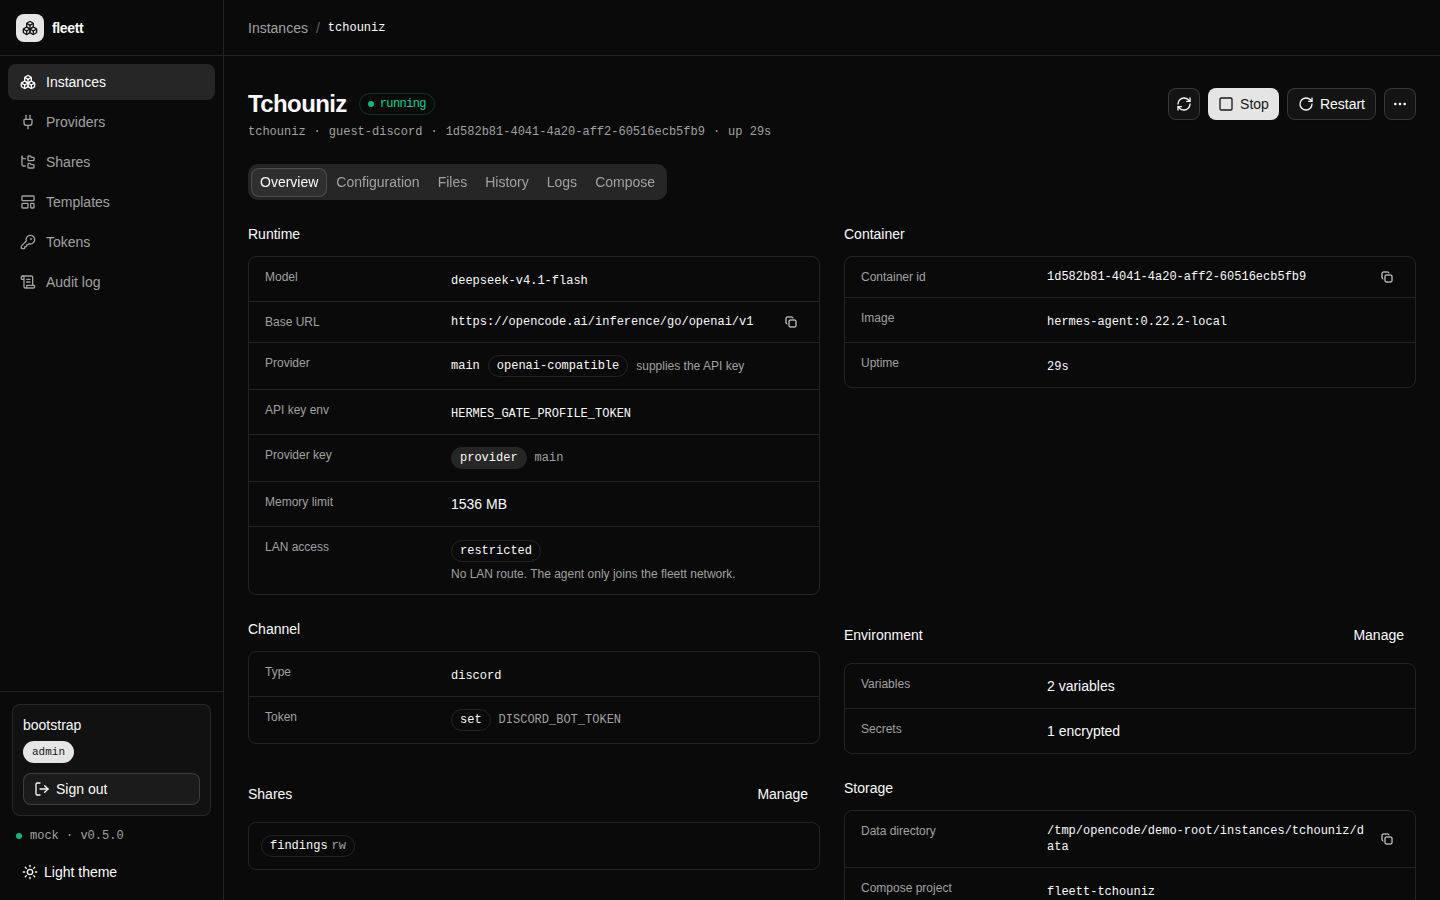
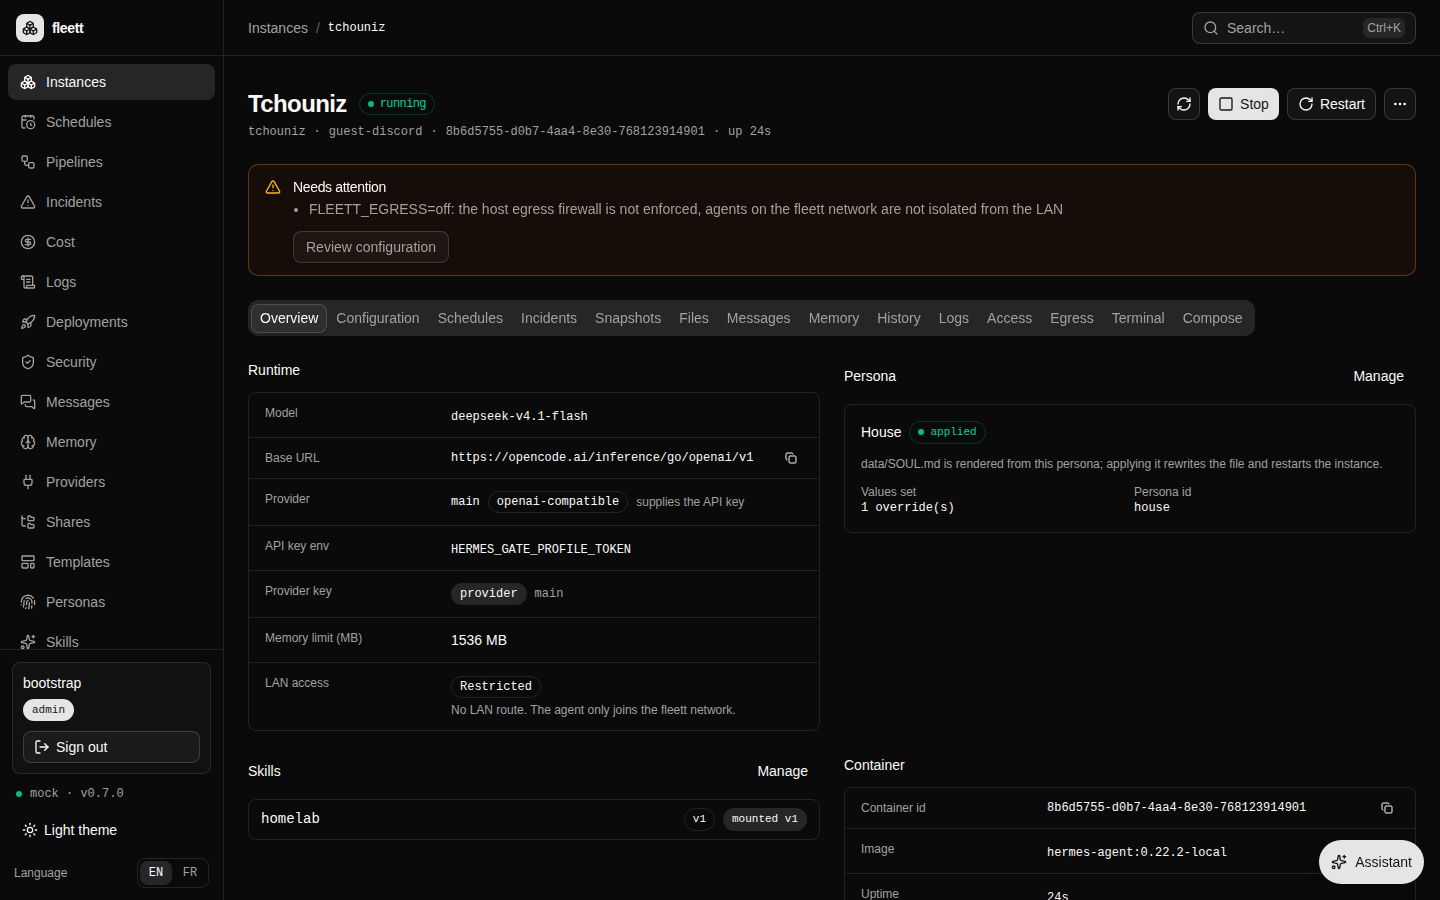
docs: v0.7.0 README with current screenshots and features

diff --git a/README.md b/README.md
@@ -30,20 +30,18 @@ The instance you already run is never touched. `fleett` manages the new ones, si
 | | |
 |---|---|
 | **Lifecycle** | Create from a template, start, stop, restart, delete (data kept or purged), clone with fresh credentials. |
-| **Templates & env** | `guest`, `guest-discord`, `solo`; allowlist suggestions with `example`/`format`/`required`, pre-filled fields and API-validated ids; missing allowlist warning on the instance and in `fleett doctor`; per-key `secret` flag; encrypted at rest, values never returned. |
-| **Providers** | Share one credential across agents, test it, rotate once and restart every linked agent with a per-instance report. |
-| **Files** | Browse and edit `SOUL.md`, skills and notes from the console; ETag conflicts, timestamped backups, “save & restart”. |
-| **History** | One git repo per agent, actor-attributed commits, diff, restore. Readable while the agent is stopped. |
-| **Logs** | `tail`, `since`, `grep`, `level`, JSON; error summary; `docker inspect` cause (`OOMKilled`, exit code, `State.Error`). |
-| **Backups** | Rotating host backups, portable instance export/import, restore into a fresh root. |
-| **Upgrades** | Move the whole fleet to a new image: one at a time, health-checked, automatic rollback to the previous tag. |
-| **Security** | OIDC/Authentik with `admin`/`viewer`, CSRF, audit log, named revocable tokens, encrypted secrets, LAN egress firewall, opt-in strict hardening. |
-| **Orchestration** | Persistent agent-to-agent bus (`say`/`messages`/`ack`), shared fleet memory with FTS5 search and history, per-agent cron schedules with run history, DAG pipelines with retries/cancellation. |
-| **Ops** | Watchdog with `off|restart|recreate` healing and an incident registry, per-instance snapshots/rollback, maintenance windows, canary upgrades with soak, deployment journal, disk quotas. |
-| **Observability** | Persistent searchable log center with SSE, token/cost accounting with budgets and versioned pricing, Prometheus `/metrics` with an importable Grafana dashboard and alert rules. |
-| **Integrations** | Signed outbound webhooks + OpenAPI 3.0 + TypeScript SDK, `fleett mcp` (stdio/HTTP), declarative `fleet.yaml` plan/apply with drift detection. |
-| **Security** | Per-instance RBAC and scoped tokens, allowlisted exec with audit, API rate limiting/lockout/security headers, signed audit export with retention, per-instance egress policy. |
-| **Reliability** | Real healthcheck, compose integration in CI, automatic rollback on failed upgrades, restore points before risky operations, `fleett doctor`. |
+| **Templates & env** | `guest`, `guest-discord`, `solo`; per-key `secret` flag; encrypted at rest, values never returned; allowlist suggestions. |
+| **Providers** | Share one API credential across agents, test it, rotate once and restart every linked agent with a report. |
+| **Personas** | Reusable `SOUL.md` templates with variables; assign to any agent, track divergence, reapply in one click. |
+| **Skills** | Versioned, read-only skill registry; pin a version per agent or follow `latest`, promote with a rolling restart. |
+| **Assistant** | A context-aware panel on every page drafts `SKILL.md`, `SOUL.md`, env allowlists or YAML — with redaction, a token budget and a diff to apply, never a blind write. |
+| **Files** | Browse, edit, upload, download and zip; Markdown preview, coloured YAML/JSON, full-text search, ETag conflicts, backups. |
+| **History** | One git repo per agent, actor-attributed commits, diff, restore; readable while the agent is stopped. |
+| **Logs** | Live SSE follow (with 1 s polling fallback), scroll-pause, filters, 2 000-line buffer, copy/export. |
+| **Day two** | Health checks, rolling upgrades with rollback, rotating backups, export/import, usage and quotas. |
+| **Security** | OIDC/Authentik with `admin`/`viewer`, CSRF, audit, named tokens, encrypted secrets, egress firewall and destination policies, per-agent LAN opt-in. |
+| **Ops** | Doctor + onboarding, Prometheus `/metrics`, `fleett doctor`, compose integration in CI, `.deb`, OCI image. |
+| **Console** | Installable PWA, `Ctrl/Cmd+K` palette, full EN/FR, mobile-first at 390 px. |
 
 ## Quick start
 
@@ -61,8 +59,8 @@ release: a `.deb` (systemd unit, UID 10000, secrets key) and the image
 <summary><strong>Debian / Ubuntu</strong></summary>
 
 ```bash
-curl -fsSLO https://github.com/cleeryy/fleett/releases/latest/download/fleett_0.6.0_amd64.deb
-sudo dpkg -i fleett_0.6.0_amd64.deb
+curl -fsSLO https://github.com/cleeryy/fleett/releases/latest/download/fleett_0.7.0_amd64.deb
+sudo dpkg -i fleett_0.7.0_amd64.deb
 sudoedit /etc/fleett/fleett.env   # set FLEETT_TOKEN
 sudo systemctl enable --now fleett
 ```
@@ -79,26 +77,24 @@ docker run -d --name fleett \
   -e FLEETT_TOKEN=change-me \
   -e FLEETT_DRIVER=compose \
   --group-add "$(stat -c '%g' /var/run/docker.sock)" \
-  ghcr.io/cleeryy/fleett:0.6.0
+  ghcr.io/cleeryy/fleett:0.7.0
 ```
 </details>
 
-Three things before the first agent:
-
-1. `sudo fleett egress install` — otherwise restricted agents are refused
-   (`409 egress_not_enforced`).
-2. Build the agent image and set `FLEETT_IMAGE`:
-   `docker build -t hermes-agent:0.22.2-local /path/to/hermes-official`.
-3. Create a provider (or paste a token on the instance), then create the instance.
+The console's **Setup** page walks through the three prerequisites: Docker reachable, the
+agent image built (`docker build -t hermes-agent:0.22.2-local /path/to/hermes-official`),
+a provider created. The **Doctor** checks the rest.
 
 ## A look inside
 
+![Instance](docs/screenshots/detail.png)
+
 | | |
 |---|---|
-| ![Create](docs/screenshots/create.png) | ![Files](docs/screenshots/files.png) |
-| **Create** — template, provider, model, LAN policy. | **Files** — edit the soul, keep every version. |
-| ![History](docs/screenshots/history.png) | ![Providers](docs/screenshots/providers.png) |
-| **History** — who changed what, restore in one click. | **Providers** — one credential, many agents. |
+| ![Personas](docs/screenshots/personas.png) | ![Skills](docs/screenshots/skills.png) |
+| **Personas** — one voice, many agents. | **Skills** — versions, pins, rolling promote. |
+| ![Setup](docs/screenshots/setup.png) | ![Assistant](docs/screenshots/assistant.png) |
+| **Setup** — doctor and first-run guide. | **Assistant** — drafts, diffs, audited apply. |
 
 ## How it fits together
 
@@ -126,16 +122,16 @@ it — the agents keep running. The SQLite database is a rebuildable index; `ins
 ## Security model
 
 - **Agents are contained**: no host network, no Docker socket, one data mount, `NET_RAW`
-  dropped, `pids_limit`, memory and CPU limits.
-- **Egress**: agents only reach the restricted `fleett` network. `fleett egress install`
-  drops RFC1918 destinations with tagged `DOCKER-USER` rules; `allow_lan` is an explicit
-  per-instance exception.
-- **Secrets**: AES-256-GCM at rest, the key lives outside `FLEETT_ROOT`, Compose only sees
-  `${KEY}`, and no endpoint returns a secret value.
+  dropped, `pids_limit`, memory and CPU limits, optional strict hardening profile.
+- **Egress**: the restricted `fleett` network, host `DOCKER-USER` firewall for RFC1918,
+  optional per-agent destination policies. A policy that adds nothing over the host firewall
+  never renders a proxy; an unreachable proxy is reported, not silently enforced.
+- **Secrets**: AES-256-GCM at rest, key outside `FLEETT_ROOT`, Compose only sees `${KEY}`,
+  no endpoint returns a secret value. The assistant redacts provider and instance secrets
+  before sending context to the model.
 - **Humans**: OIDC/Authentik, signed session cookies, `admin`/`viewer`, CSRF double-submit,
-  named tokens stored as digests, every mutation in the audit log.
-- **API**: sliding-window rate limits per IP and credential, a progressive lockout after
-  failed logins, and CSP/HSTS/framing headers on every response (`fleett security`).
+  named tokens stored as digests, every mutation in the audit log — including
+  “via assistant”.
 
 ## CLI
 
@@ -143,13 +139,12 @@ it — the agents keep running. The SQLite database is a rebuildable index; `ins
 fleett ls
 fleett create --template guest-discord --id tchouniz
 fleett logs tchouniz --since 30m --grep error --level error
-fleett usage --detail
-fleett quota alice --set 2048 --policy freeze
-fleett quota cleanup alice
+fleett usage
 fleett upgrade --image hermes-agent:0.23.0-local
 fleett backup --keep 7
+fleett egress policy tchouniz
+fleett egress unset tchouniz
 fleett doctor
-fleett security
 ```
 
 Every command accepts `--json`; the server URL and token come from
@@ -159,12 +154,11 @@ Every command accepts `--json`; the server URL and token come from
 
 | | |
 |---|---|
-| [Install](docs/INSTALL.md) · [Deploy](docs/DEPLOY.md) · [Packaging](docs/PACKAGING.md) | how to run it, as a binary, a `.deb` or a container |
-| [Onboarding and doctor](docs/ONBOARDING.md) | the four first-run steps, the host checklist and its fixes |
-| [Security: secrets](docs/SECRETS.md) · [egress](docs/EGRESS.md) · [hardening](docs/HARDENING.md) · [OIDC](docs/OIDC.md) | the guarantees and how to operate them |
-| [Files](docs/FILES.md) · [git](docs/GIT.md) · [env](docs/ENV.md) · [templates](docs/TEMPLATES.md) · [personas](docs/PERSONAS.md) · [providers](docs/PROVIDERS.md) · [schedules](docs/SCHEDULES.md) | the per-agent surface |
-| [Backup](docs/BACKUP.md) · [upgrade](docs/UPGRADE.md) · [quota](docs/QUOTA.md) · [CLI](docs/CLI.md) · [metrics](docs/METRICS.md) · [CI](docs/CI.md) | day-two operations |
-| [MCP](docs/MCP.md) | the fleet as tools for an orchestrating agent |
+| [Install](docs/INSTALL.md) · [Deploy](docs/DEPLOY.md) · [Packaging](docs/PACKAGING.md) | run it as a binary, a `.deb` or a container |
+| [Security: secrets](docs/SECRETS.md) · [egress](docs/EGRESS.md) · [policies](docs/EGRESS-POLICY.md) · [hardening](docs/HARDENING.md) · [OIDC](docs/OIDC.md) | the guarantees and how to operate them |
+| [Files](docs/FILES.md) · [git](docs/GIT.md) · [env](docs/ENV.md) · [providers](docs/PROVIDERS.md) · [personas](docs/PERSONAS.md) · [skills](docs/SKILLS.md) · [assistant](docs/ASSISTANT.md) | the per-agent surface |
+| [Backup](docs/BACKUP.md) · [upgrade](docs/UPGRADE.md) · [CLI](docs/CLI.md) · [metrics](docs/METRICS.md) · [onboarding](docs/ONBOARDING.md) · [CI](docs/CI.md) | day-two operations |
+| [Console i18n](web/I18N.md) | FR/EN conventions and the hardcoded-copy gate |
 
 ## Development
 
@@ -180,9 +174,9 @@ cd web && pnpm build
 cd ../backend && cargo build --release --features embed-web
 ```
 
-`cargo test` (433 tests), `cargo clippy --all-targets -- -D warnings` and `pnpm build` are
-the gates. The compose-driver job runs the real `docker compose` lifecycle against a
-stand-in agent image on every push.
+The gates are `cargo test` (923 tests), `cargo clippy --all-targets -- -D warnings`,
+`pnpm build` and `node scripts/check-i18n.mjs --strict`. The compose-driver job runs the
+real `docker compose` lifecycle against a stand-in agent image on every push.
 
 ## Upgrading from `hermes-fleet`
 
